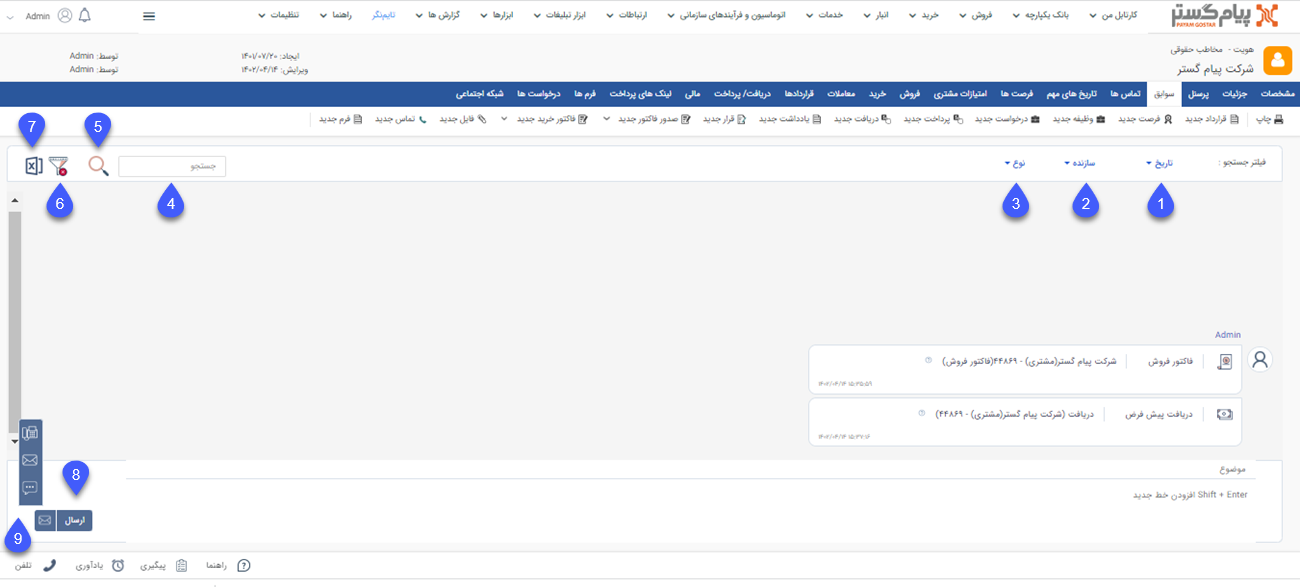
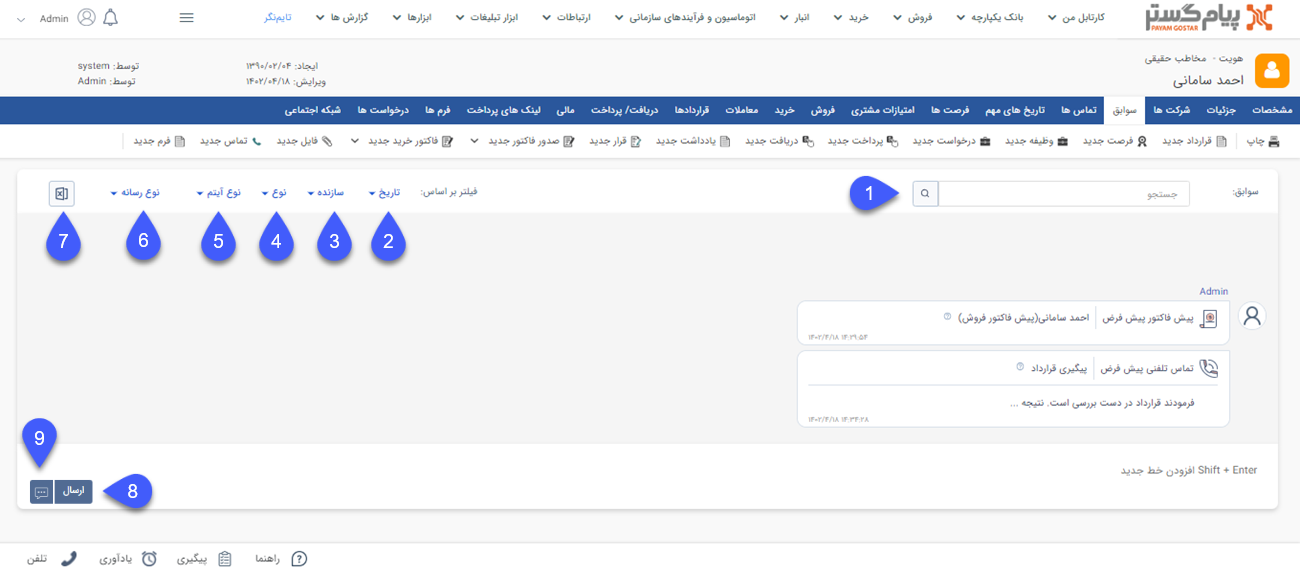
Records new edition

diff --git a/Help/Integrated-bank/Database/Records/Records_2.7.5.md b/Help/Integrated-bank/Database/Records/Records_2.7.5.md
@@ -7,22 +7,23 @@
 
 ![صفحه سوابق هویت](./Images/customer-records-2.7.5.png)
 
-**۱. تاریخ:** با استفاده از این فیلتر میتوانید سوابق ثبت شده در بازه زمانی مورد نظر خود را بیابید.<br>
-**۲. سازنده:** با استفاده از این فیلتر میتوانید سوابق ثبت شده توسط کاربر مورد نظر خود را بیابید. در صورتی که تمایل به نمایش آیتمهای ثبت شده توسط کاربری خود دارید، میتوانید با استفاده از دایره سمت راست فیلد کاربر، کاربری خود را درج نمایید.<br>
-**۳. نوع:** با استفاده از فیلترهای موجود در این قسمت میتوانید لیست سوابق مورد نظر خود از انواع مختلف آیتمها را جستجو کنید.<br>
-- با کلیک بر روی گزینه "CRM" فیلتر زیرنوع نمایش داده شده و میتوانید از لیست انواع موجودیتها، یکی از انواع سوابق (به عنوان مثال فرم یا فرصت) را انتخاب نمایید.<br>
--  با کلیک بر روی گزینه "پیام" تمامی سوابق از نوع پیام کوتاه و ایمیل نمایش داده میشود.<br>
-- با کلیک بر روی گزینه "تماس تلفنی" تمامی تماسهای ثبت شده توسط سیستم (لاگ های ورودی و خروجی) نمایش داده میشود.<br>
+**1. جستجو:** با استفاده از این فیلد میتوانید سوابق دارای یک عبارت خاص را جستجو و فیلتر نمایید. نتیجه حاصل شده مواردی را نشان میدهد که در عنوان و یا محتوا (توضیحات و سایر فیلدهای موجود در آیتم)  شامل عبارت مذکور میباشند.
+**2. تاریخ:** با استفاده از این فیلتر میتوانید سوابق ثبت شده در بازه زمانی مورد نظر خود را بیابید.<br>
+**3. سازنده:** با استفاده از این فیلتر میتوانید سوابق ثبت شده توسط کاربر مورد نظر خود را بیابید. در صورتی که تمایل به نمایش آیتمهای ثبت شده توسط کاربری خود دارید، میتوانید با استفاده از دایره سمت راست فیلد کاربر، کاربری خود را درج نمایید.<br>
+**4. نوع:** با استفاده از فیلترهای موجود در این قسمت میتوانید لیست سوابق مورد نظر خود از انواع مختلف آیتمها را جستجو کنید.<br>
+- با انتخاب گزینه "آیتم سیآرام" تمامی سوابق از جنس موجودیتهای مختلف (فرصت، فاکتور و...) نمایش داده میشوند.<br>
+-  با انتخاب گزینه "ارتباطات" تمامی سوابق از نوع پیام کوتاه و ایمیل نمایش داده میشود.<br>
+- با انتخاب گزینه "تماس تلفنی" تمامی تماسهای ثبت شده توسط سیستم (لاگ های ورودی و خروجی) نمایش داده میشود.<br>
+- با انتخاب گزینه "تبلیغات" تمامی
 
-**۴. جستجو:** با استفاده از این فیلد میتوانید سوابق دارای یک عبارت خاص را جستجو و فیلتر نمایید. نتیجه حاصل شده مواردی را نشان میدهد که در عنوان و یا محتوا (توضیحات و سایر فیلدهای موجود در آیتم)  شامل عبارت مذکور میباشند.<br>
-**۵.  آیکون ذرهبین:** با کلیک بر روی این آیکون فیلتر(های) تنظیم شده اعمال میگردد.<br>
-**۶.  آیکون حدف فیلتر:** با کلیک بر روی این آیکون فیلترهای اعمال شده حذف شده و تمامی سوابق نمایش داده میشود.<br>
-**۷.  آیکون دریافت خروجی اکسل:** با کلیک بر روی این آیکون از سوابق نمایش داده شده در صفحه خروجی اکسل دریافت میشود.<br>
-**۸.  ارسال پیام:** فضای پایین صفحه، امکان ارسال پیام (پیام کوتاه/ایمیل/ فکس) از صفحه سوابق را فراهم میآورد.<br>
+**5. نوع آیتم:** با استفاده از این فیلتر میتوانید موجودیت مورد نظر خود (به عنوان مثال فاکتورهای فروش) را انتخاب کرده و سوابق موجود از این جنس را فیلتر نمایید.<br>
+**6. نوع رسانه:** با استفاده از این فیلتر میتوانید پیامهای ارسالی و دریافتی از طریق رسانه مورد نظر (پیام کوتاه، ایمیل، فکس، چاپ، شبکههای اجتماعی و یا همه موارد) فیلتر نمایید. با انتخاب گزینه مورد نظر، تنها پیامهای ارسالی و دریافتی از طریق رسانه انتخابی نمایش داده میشود.<br>
+**7. دریافت خروجی اکسل:** با کلیک بر روی این آیکون از سوابق نمایش داده شده در صفحه خروجی اکسل دریافت میشود.
+**8. ارسال پیام:** فضای پایین صفحه، امکان ارسال پیام (پیام کوتاه/ایمیل/ فکس) از صفحه سوابق را فراهم میآورد.<br>
 >**نکته**<br>
 >در این بخش کلید Enter  فعالیت ارسال پیام را اجرا مینماید. برای ایجاد خط جدید (رفتن به خط بعد) از Shift+Enter استفاده نمایید.<br>
 
-**۹. انتخاب رسانه روش ارسال:** با بر روی این گزینه میتوانید روش ارسال پیام را از بین گزینههای فکس، ایمیل و پیام کوتاه انتخاب نمایید.
+**9. انتخاب روش ارسال:** با کلیک بر روی این گزینه میتوانید روش ارسال پیام را از بین گزینههای فکس، ایمیل، پیام کوتاه و پیام شبکه اجتماعی انتخاب نمایید.
 >**نکته**<br>
 >استفاده از هر یک از روشهای ارسال پیام، نیازمند این است که خطوط ارتباطی آن در سیستم تعریف و تنظیمات مربوطه انجام شده باشد. به این منظور تنظیمات خطوط [پیامک](https://github.com/1stco/PayamGostarDocs/blob/master/Help/Settings/General-settings/payamak/safe-asli.md) ، [ایمیل](https://github.com/1stco/PayamGostarDocs/blob/master/Help/Settings/General-settings/email-s/email.safe-asli.md) و [فکس](https://github.com/1stco/PayamGostarDocs/blob/master/Help/Settings/General-settings/fax-s/Fax-List.md) را بررسی نمایید.<br>
 >>تنها کاربرانی که مجوز ارسال پیام را داشته باشند میتوانند از این قابلیت استفاده نمایند.

diff --git a/releasenote/ReleaseNote2.7.5.md b/releasenote/ReleaseNote2.7.5.md
@@ -3,13 +3,11 @@
 ##### قابلیتهای جدید
 - [**بانک اطلاعاتی، تغییر نمایش صفحه سوابق به صورت تمام کانال (Omni Channel)**](https://github.com/1stco/PayamGostarDocs/blob/master/Help/Integrated-bank/Database/Records/Records_2.7.5.md)<br>
    نمایش سربرگ سوابق به صورت تمام کانال (Omni channel) تغییر پیدا کرده است. بر اساس این تغییرات علاوه بر آیتمهای ثبت شده توسط کاربران، لاگهای تماسهای ورودی و خروجی به صورت یکپارچه قابل مشاهده است. این ساختار همچنین قابلیت ارسال پیام در صفحه سوابق را فراهم میآورد.  
-- [**فرآیند، قابلیت کوتاهسازی لینک در فعالیتها**](https://github.com/1stco/PayamGostarDocs/blob/master/Help/Settings/Personalization-crm/Overview/Process-design/Create-a-work-cycle/Activity/SendMessageActivities/SendSMSActivity_2.7.5.md#ShortlinkSMS)<br>
-   نمایش سربرگ سوابق به صورت تمام کانال (Omni channel) تغییر پیدا کرده است. بر اساس این تغییرات علاوه بر آیتمهای ثبت شده توسط کاربران، لاگهای تماسهای ورودی و خروجی به صورت یکپارچه قابل مشاهده است. این ساختار همچنین قابلیت ارسال پیام در صفحه سوابق را فراهم میآورد. 
 - [**سیستم ردیابی کاجو؛ اضافه شدن ماژول سیستم ردیابی کارجو (ATS)**](https://github.com/1stco/PayamGostarDocs/blob/master/Help/PayamgostarATS/WhatIsPayamgostarATS.md)<br>
    سیستم ATS پیامگستر ابزاری است که به تیم استخدام و مدیران سازمان کمک میکند که روند بررسی رزومه متقاضیان کار با کیفیت و سرعت بالاتری انجام شود.
-- [**فرآیند، قابلیت کوتاهسازی لینک در فعالیتها**](https://github.com/1stco/PayamGostarDocs/blob/master/Help/Settings/Personalization-crm/Overview/Process-design/Create-a-work-cycle/Activity/SendMessageActivities/SendSMSActivity_2.7.5.md#ShortlinkSMS)<br>
+- [**فرآیند؛ قابلیت کوتاهسازی لینک در فعالیتها**](https://github.com/1stco/PayamGostarDocs/blob/master/Help/Settings/Personalization-crm/Overview/Process-design/Create-a-work-cycle/Activity/SendMessageActivities/SendSMSActivity_2.7.5.md#ShortlinkSMS)<br>
    امکان کوتاهسازی لینک به هنگام ارسال در فعالیتهای [پیام کوتاه](https://github.com/1stco/PayamGostarDocs/blob/master/Help/Settings/Personalization-crm/Overview/Process-design/Create-a-work-cycle/Activity/SendMessageActivities/SendSMSActivity_2.7.5.md#ShortlinkSMS)، [فکس](https://github.com/1stco/PayamGostarDocs/blob/master/Help/Settings/Personalization-crm/Overview/Process-design/Create-a-work-cycle/Activity/SendMessageActivities/SendFaxActiviy_2.7.5.md#ShortlinkFax) و [چاپ](https://github.com/1stco/PayamGostarDocs/blob/master/Help/Settings/Personalization-crm/Overview/Process-design/Create-a-work-cycle/Activity/SendMessageActivities/PrintActivity_2.7.5.md#ShortlinkPrint) اضافه شده است. در نتیجه از این پس میتوان به جای لینک مورد نظر (لینک میتواند مربوط به هر آیتمی باشد)، لینک کوتاه شده را (بدون نیاز به استفاده از سایتهای کوتاهسازی لینک) طی فرآیند ارسال کند.
-- [**سوابق موجودیتها، امکان درج/عدم درج موجودیت ثبت شده در سوابق موجودیت پدر**](https://github.com/1stco/PayamGostarDocs/blob/master/Help/Settings/Personalization-crm/Overview/General-information/Add-features/AddFeatures2.7.5.md#NotSavedToParentStory)<br>
+- [**سوابق موجودیتها؛ امکان درج/عدم درج موجودیت ثبت شده در سوابق موجودیت پدر**](https://github.com/1stco/PayamGostarDocs/blob/master/Help/Settings/Personalization-crm/Overview/General-information/Add-features/AddFeatures2.7.5.md#NotSavedToParentStory)<br>
    امکان انتخاب اتصال/عدم اتصال موجودیت ثبت شده از روی موجودیتی  دیگر به هنگام ثبت آیتم جدید از روی فیلدهای CRM   ایجاد شده است.
 - [**فرم عمومی؛ امکان ثبت فرم عمومی در سابقه هویت مشخص**](https://github.com/1stco/PayamGostarDocs/blob/master/Help/Settings/Personalization-crm/Form-management/GeneralForm2.7.5.md#GeneralFormForSpecificIdentity)<br>
    با استفاده از این قابلیت میتوان فرم عمومی ثبت شده را به جای ثبت در سوابق هویت ایجادکننده، در سوابق هویت مورد نظر ذخیره کرد.<br>
